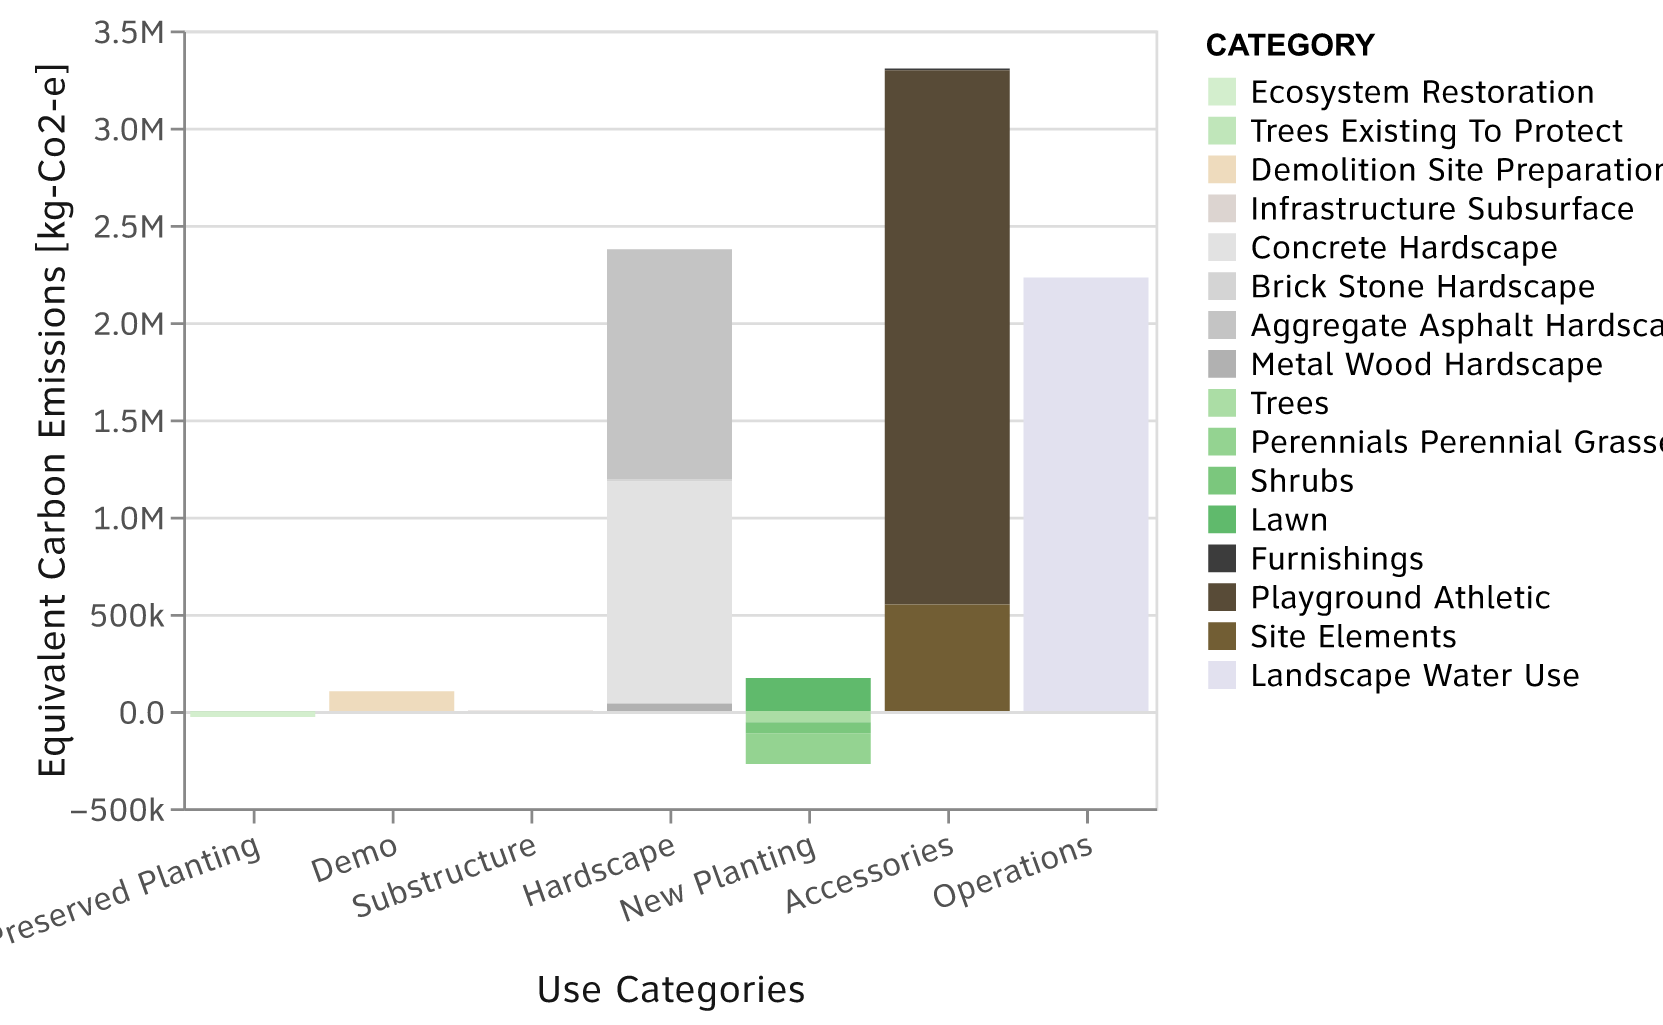
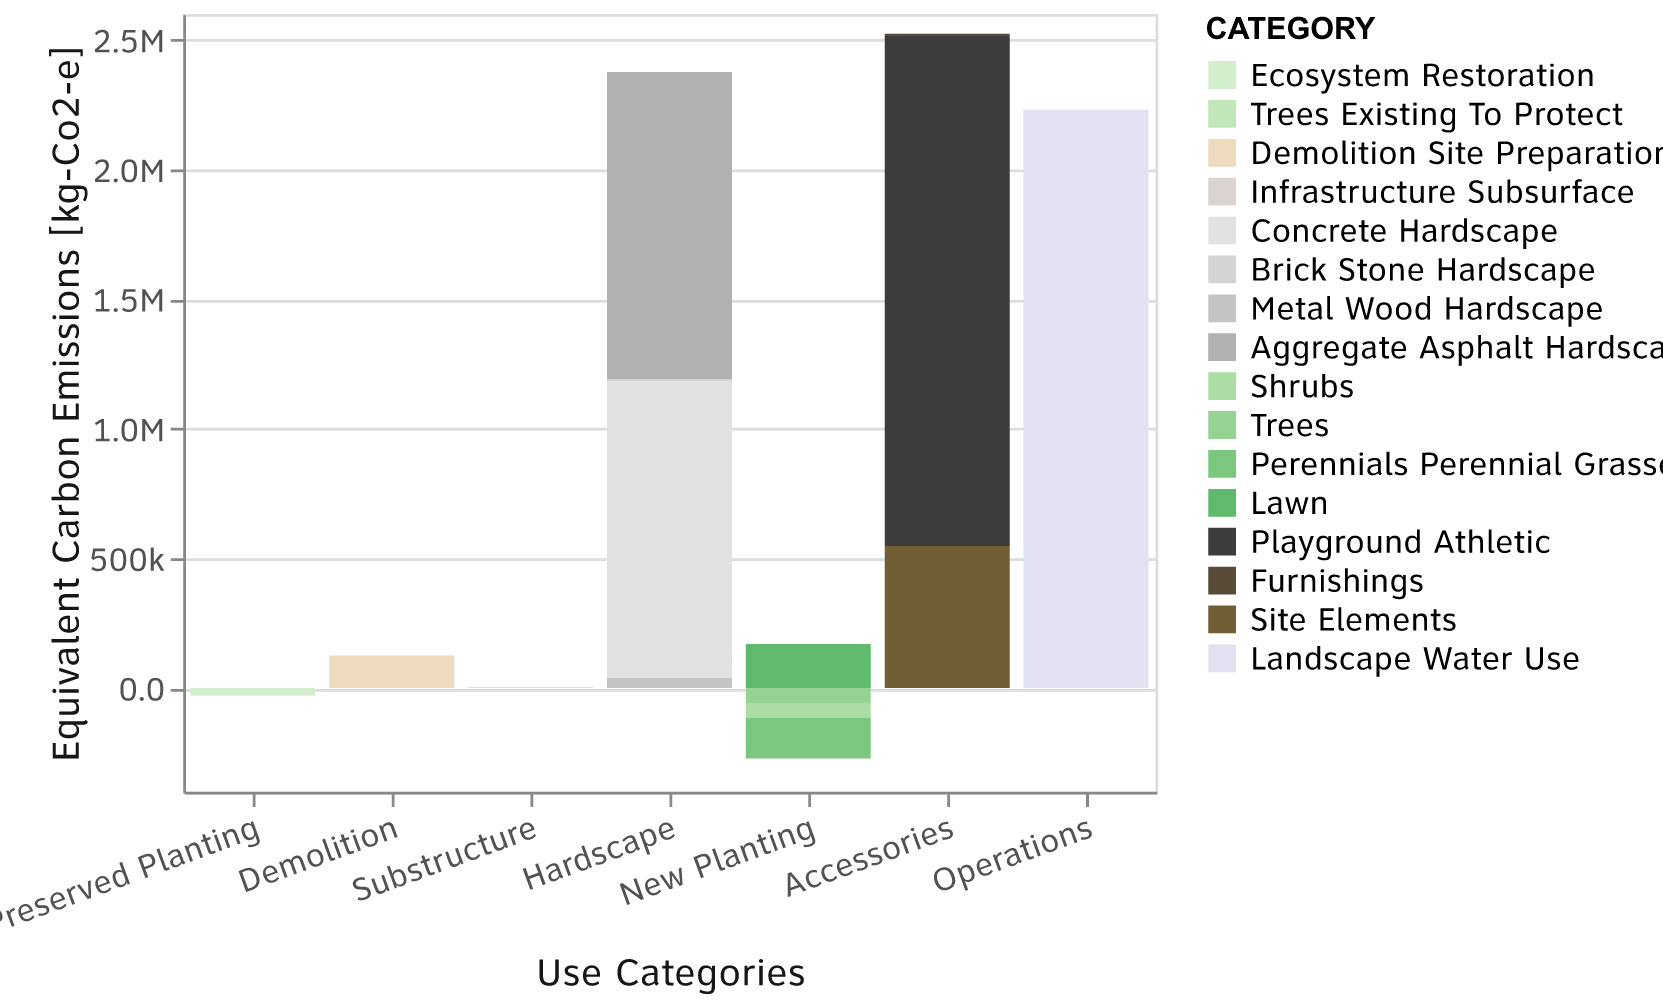
saginaw figs

diff --git a/src/path_extract/study/pres.py b/src/path_extract/study/pres.py
@@ -20,7 +20,7 @@ def pier_6_figs():
     worse_alt = 0
     as_designed = 1
     landscape_only_as_designed = 2
-    landscape_only_worse = 3 # TODO! 
+    landscape_only_worse = 3  # TODO!
 
     categ1 = UseCategories.SUBSTRUCTURE
     categ2 = UseCategories.HARDSCAPE
@@ -40,14 +40,14 @@ def pier_6_figs():
         ],
     )
 
-    # sheet pile.. 
+    # sheet pile..
     make_stack_compare_figure(
         proj, as_designed, worse_alt, renderer=HTML, filter_categ=categ1
     )
 
     make_pier_6_pie(HTML)
 
-    make_comparison_figure(proj, as_designed, worse_alt, renderer=HTML)
+    # make_comparison_figure(proj, as_designed, worse_alt, renderer=HTML)
 
 
 def saginaw_figs():
@@ -58,14 +58,19 @@ def saginaw_figs():
 
     clear_fig_path(proj)
     make_categorical_figure(proj, as_designed, HTML)
-    make_element_figure(proj)
+    make_element_figure(
+        proj,
+        as_designed,
+        HTML,
+        filter_categories=[UseCategories.SITE_PREPARATION, UseCategories.DEMOLITION],
+    )
     # make_categorical_figure(proj, worse_alt, HTML)
 
-    make_stack_compare_figure(
-        proj, as_designed, worse_alt, HTML, filter_categ=categ1
-    )
+    make_stack_compare_figure(proj, as_designed, worse_alt, HTML)
 
-    make_comparison_figure(proj, as_designed, worse_alt, renderer=HTML)
+    make_stack_compare_figure(proj, worse_alt, even_worse_alt, HTML)
+
+    # make_comparison_figure(proj, as_designed, worse_alt, renderer=HTML)
 
 
 def bpcr_figs():

diff --git a/src/path_extract/extract/extract.py b/src/path_extract/extract/extract.py
@@ -14,6 +14,7 @@ import sys
 
 
 def create_csvs_for_project(clmt_path: CLMTPath):
+    rprint(f"-------EXTRACTING CSVS FOR {clmt_path.input_path.stem}-----------------")
     def make_breakdown():
         html = exp_dir / HTML(DataType.BREAKDOWN.value)
         rprint(f"html is {html}")
@@ -53,7 +54,7 @@ if __name__ == "__main__":
     else:
         project = "newtown_creek"
     rprint(f"project to process: {project}")
-    # clmt_path = CLMTPath(
-    #     project
-    # )  # TODO fix the literal.. => do some checks on the class
-    # create_csvs_for_project(clmt_path)
+    clmt_path = CLMTPath(
+        project
+    )  # TODO fix the literal.. => do some checks on the class
+    create_csvs_for_project(clmt_path)
